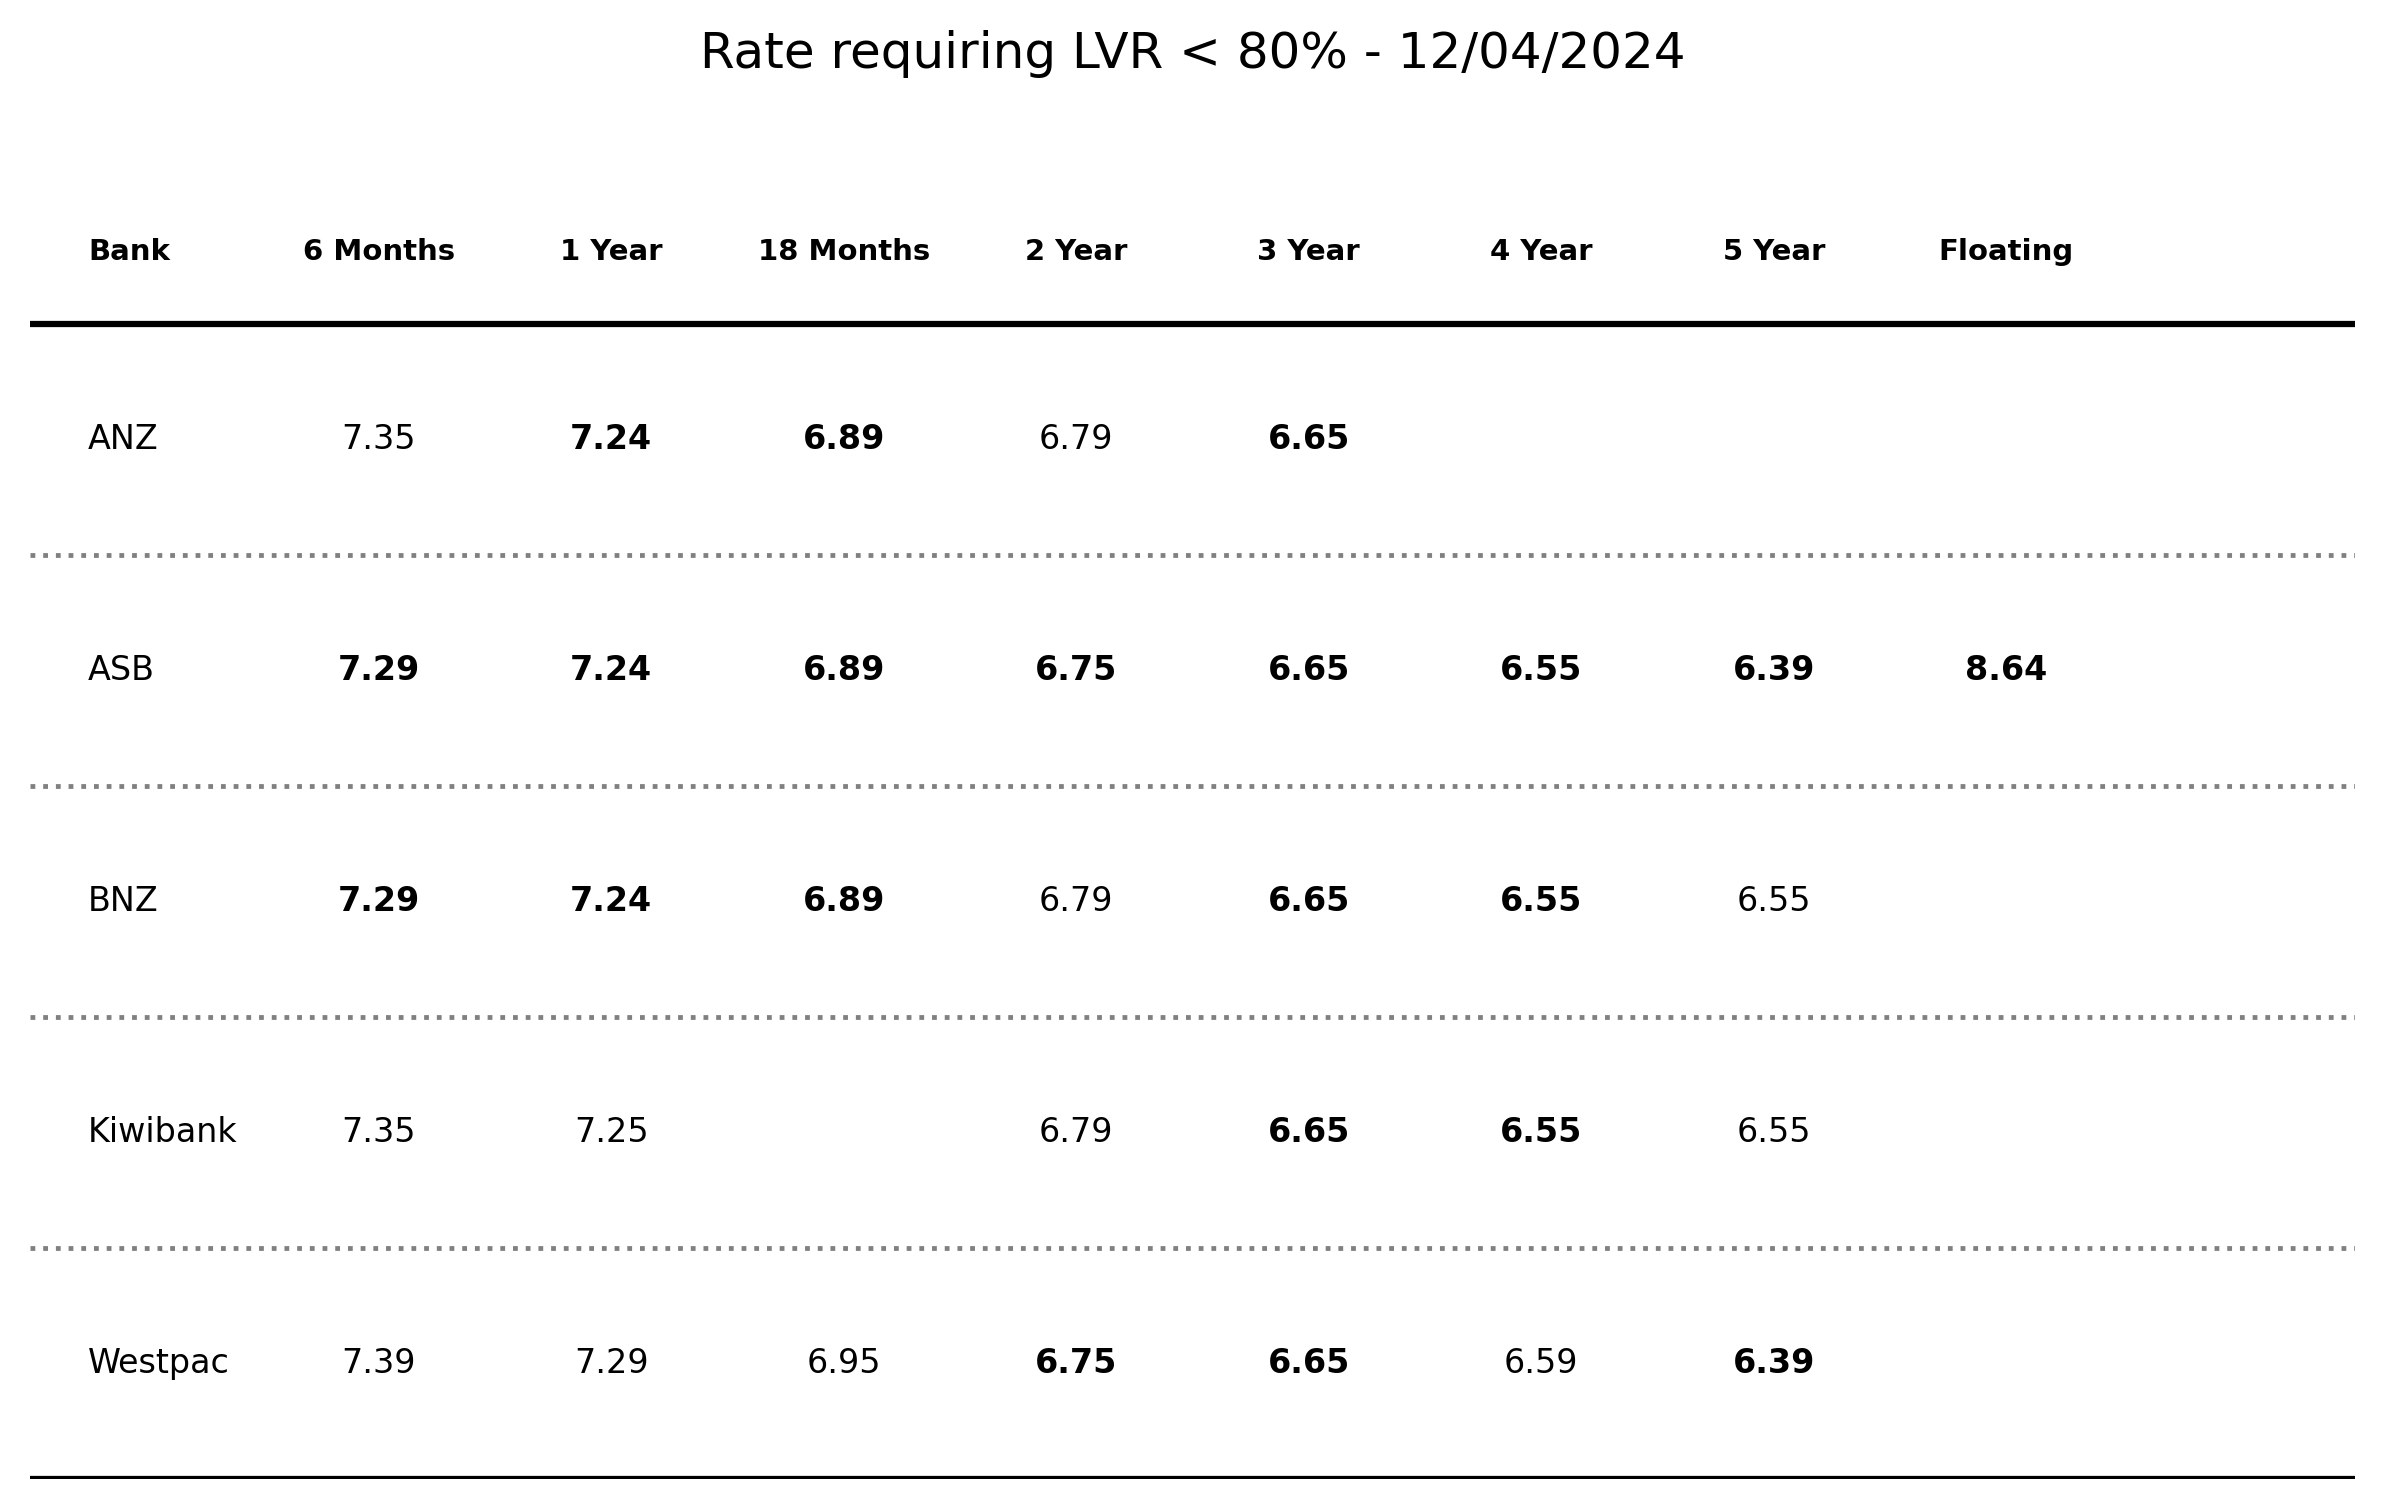
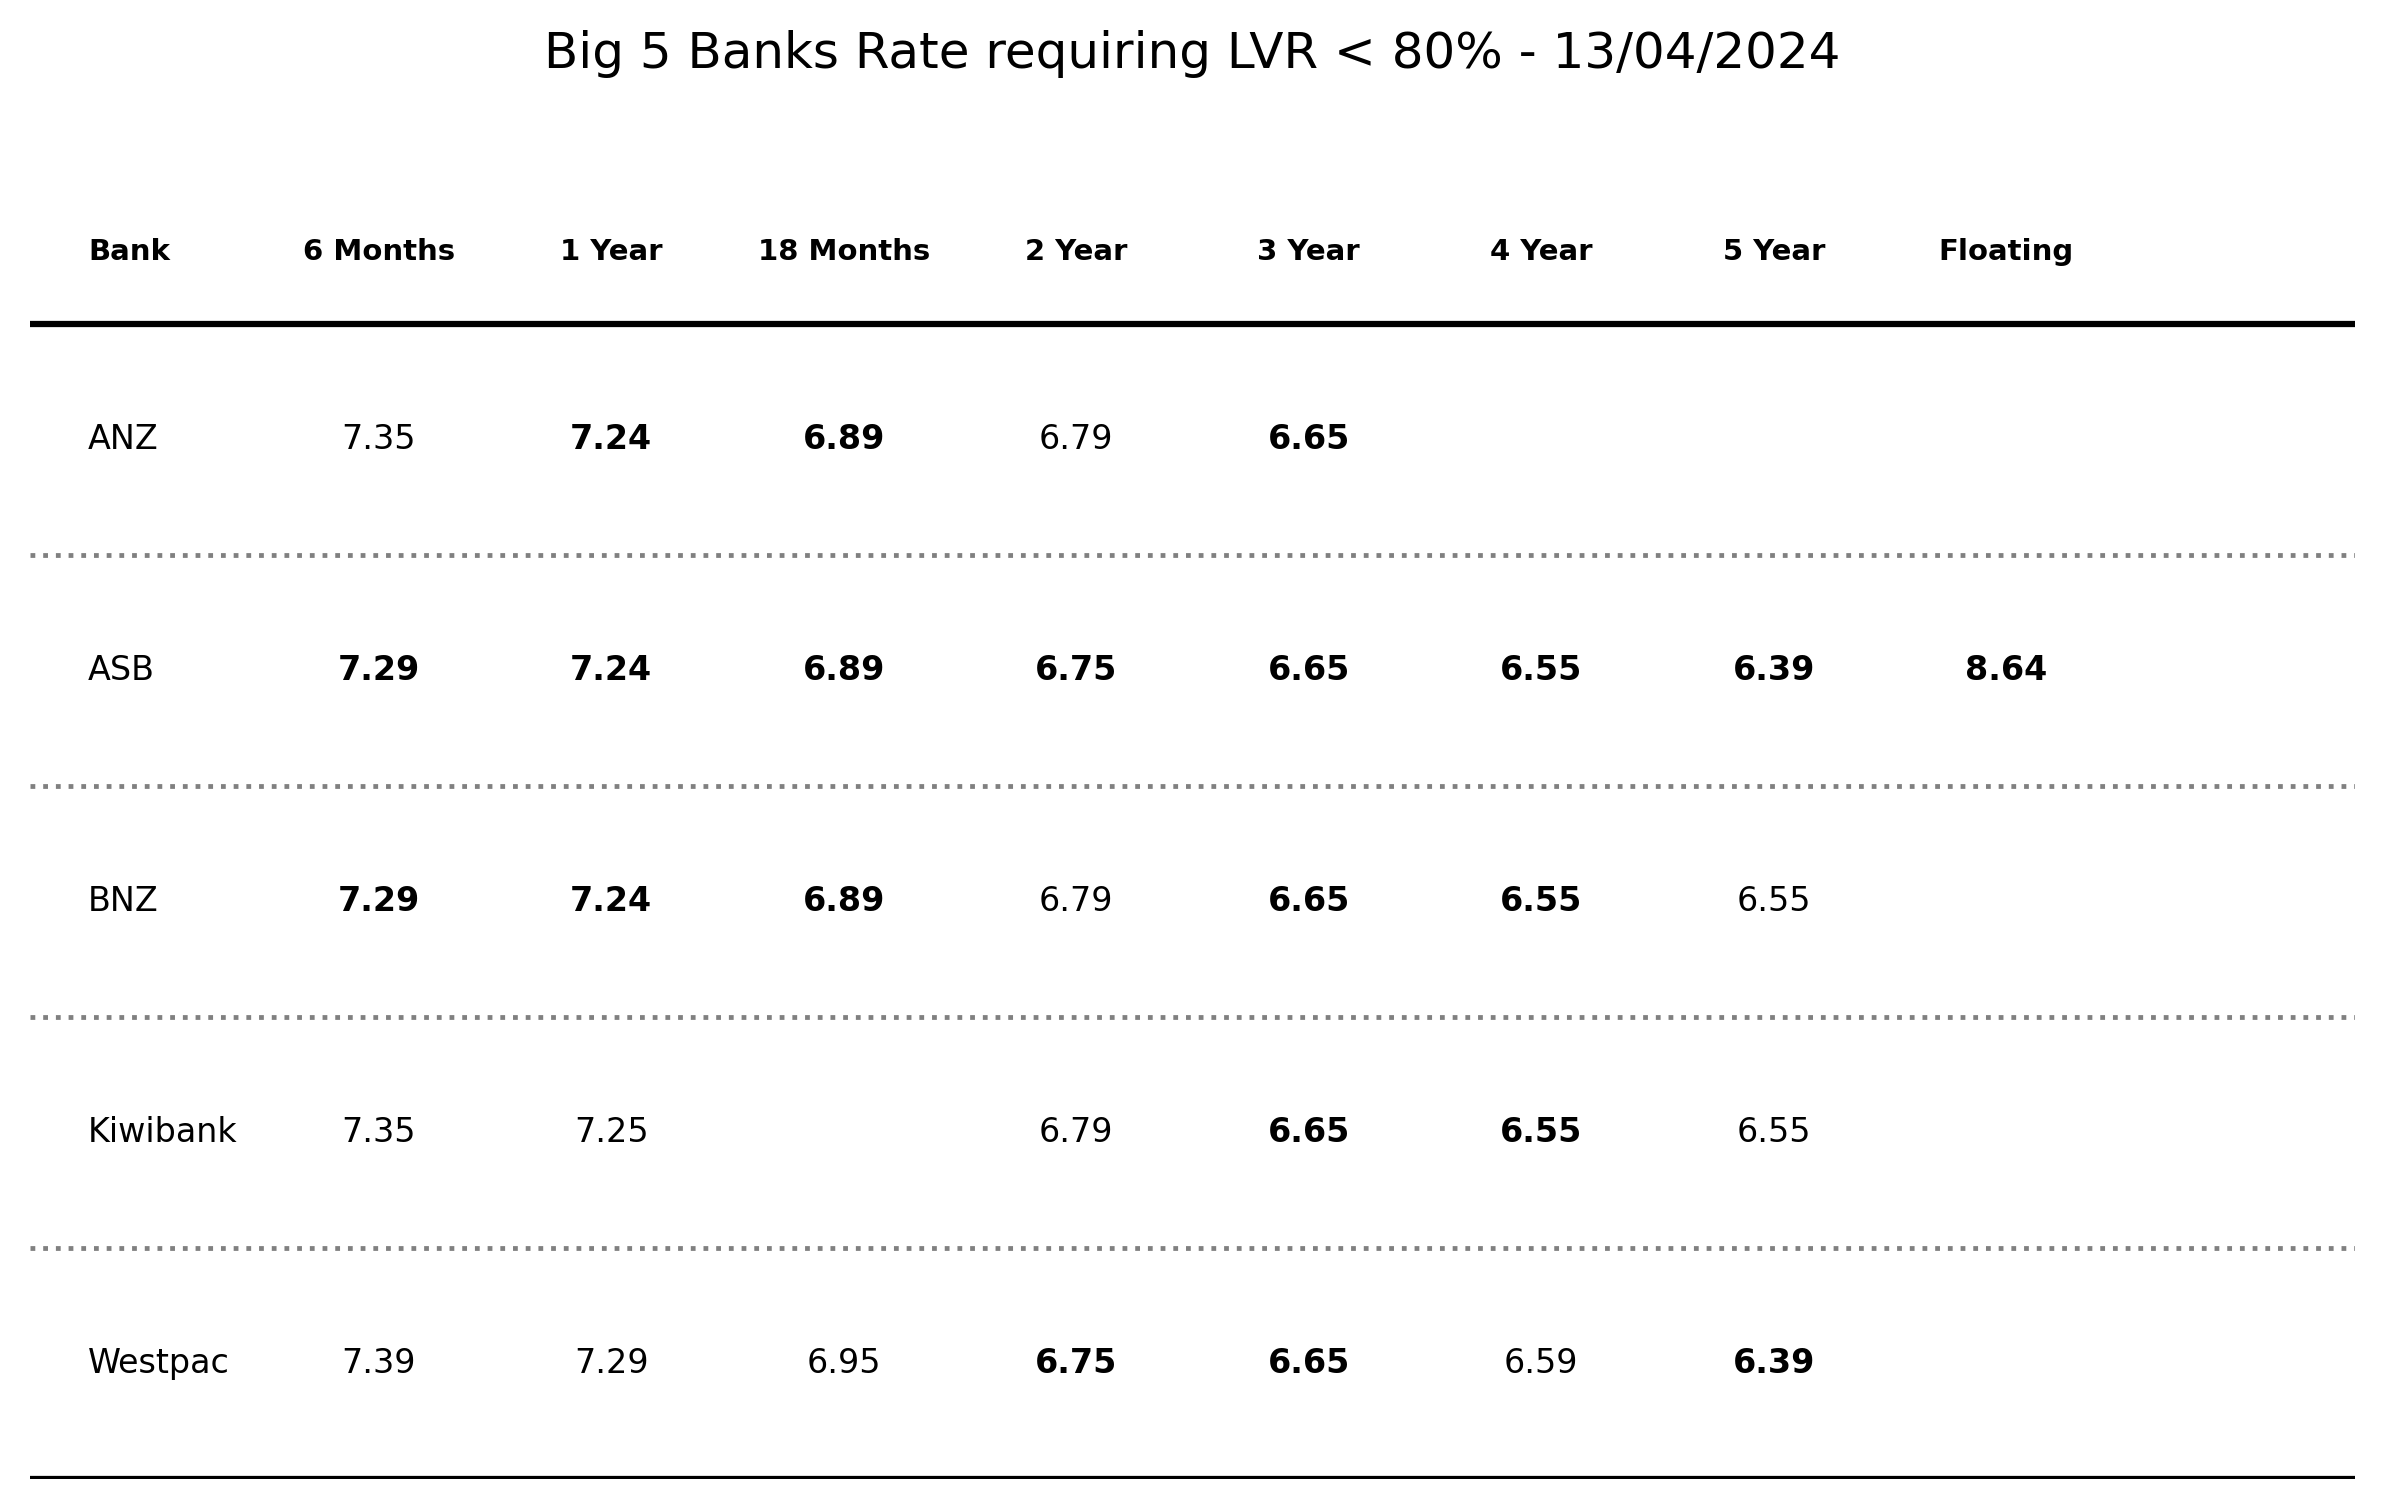
added domestic banks page

Changed region(s): [[0.2172, 0.0, 0.7757, 0.0623]]

diff --git a/domestic.html b/domestic.html
@@ -53,27 +53,27 @@
 <div class="w3-row w3-padding-64">
 <h1>NZ Mortgage Interest Rate Charts</h1>
 <p>
-Charts below are daily snapshots of the headline interest rate for each of the big five banks (92% of mortgage market) in New Zealand over the last 2 years.
+Charts below are daily snapshots of the headline interest rate for domestic banks in New Zealand over the last 2 years.
 Tables show the rates as dated.
 <p>
 Rates in bold are the lowest rate for that fixed loan term/floating rate.
 'LVR < 80%' (rates requiring minimum of 80% equity on the property).  
 <p>
-ASB are the only bank matching the lowest 'LVR < 80%' rates across all term rates, closely followed by BNZ.
-Kiwibank consitently pricing itself aggresively with the lowest floating rate.
+Co-operative bank consistently lowest 'Standard' rates across all rates.
+Heartland aggresively across it's 'LVR > 80%' rates since February this year.
 <p>
 
 <div class="grid-container">
-    <div class="grid-item"><img src="latest standard rates.png" alt="Product 1"></div>
-    <div class="grid-item"><img src="latest LVR less 80 rates.png" alt="Product 2"></div>
-	<div class="grid-item"><img src="Floating_interest_rates.png" alt="Product 3"></div>
-	<div class="grid-item"><img src="6 Months_interest_rates.png" alt="Product 4"></div>
-    <div class="grid-item"><img src="1 Year_interest_rates.png" alt="Product 5"></div>
-    <div class="grid-item"><img src="18 Months_interest_rates.png" alt="Product 6"></div>  
-    <div class="grid-item"><img src="2 Year_interest_rates.png" alt="Product 7"></div>
-	<div class="grid-item"><img src="3 Year_interest_rates.png" alt="Product 8"></div>
-    <div class="grid-item"><img src="4 Year_interest_rates.png" alt="Product 9"></div>
-    <div class="grid-item"><img src="5 Year_interest_rates.png" alt="Product 10"></div>  
+    <div class="grid-item"><img src="latest standard rates dom.png" alt="Product 1"></div>
+    <div class="grid-item"><img src="latest LVR less 80 rates dom.png" alt="Product 2"></div>
+	<div class="grid-item"><img src="Floating_interest_rates_dom.png" alt="Product 3"></div>
+	<div class="grid-item"><img src="6 Months_interest_rates_dom.png" alt="Product 4"></div>
+    <div class="grid-item"><img src="1 Year_interest_rates_dom.png" alt="Product 5"></div>
+    <div class="grid-item"><img src="18 Months_interest_rates_dom.png" alt="Product 6"></div>  
+    <div class="grid-item"><img src="2 Year_interest_rates_dom.png" alt="Product 7"></div>
+	<div class="grid-item"><img src="3 Year_interest_rates_dom.png" alt="Product 8"></div>
+    <div class="grid-item"><img src="4 Year_interest_rates_dom.png" alt="Product 9"></div>
+    <div class="grid-item"><img src="5 Year_interest_rates_dom.png" alt="Product 10"></div>  
 </div>
 
 </body>
